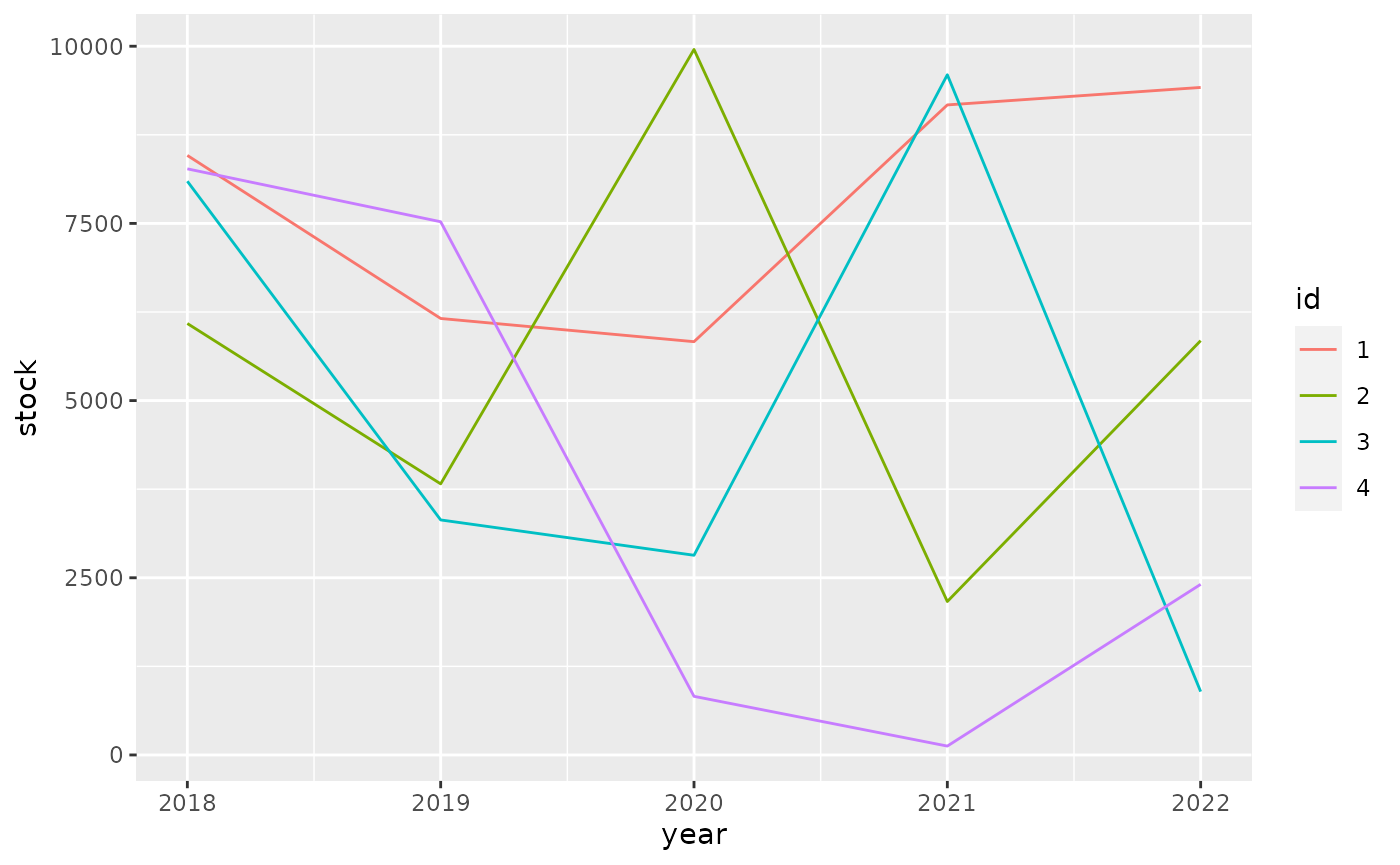
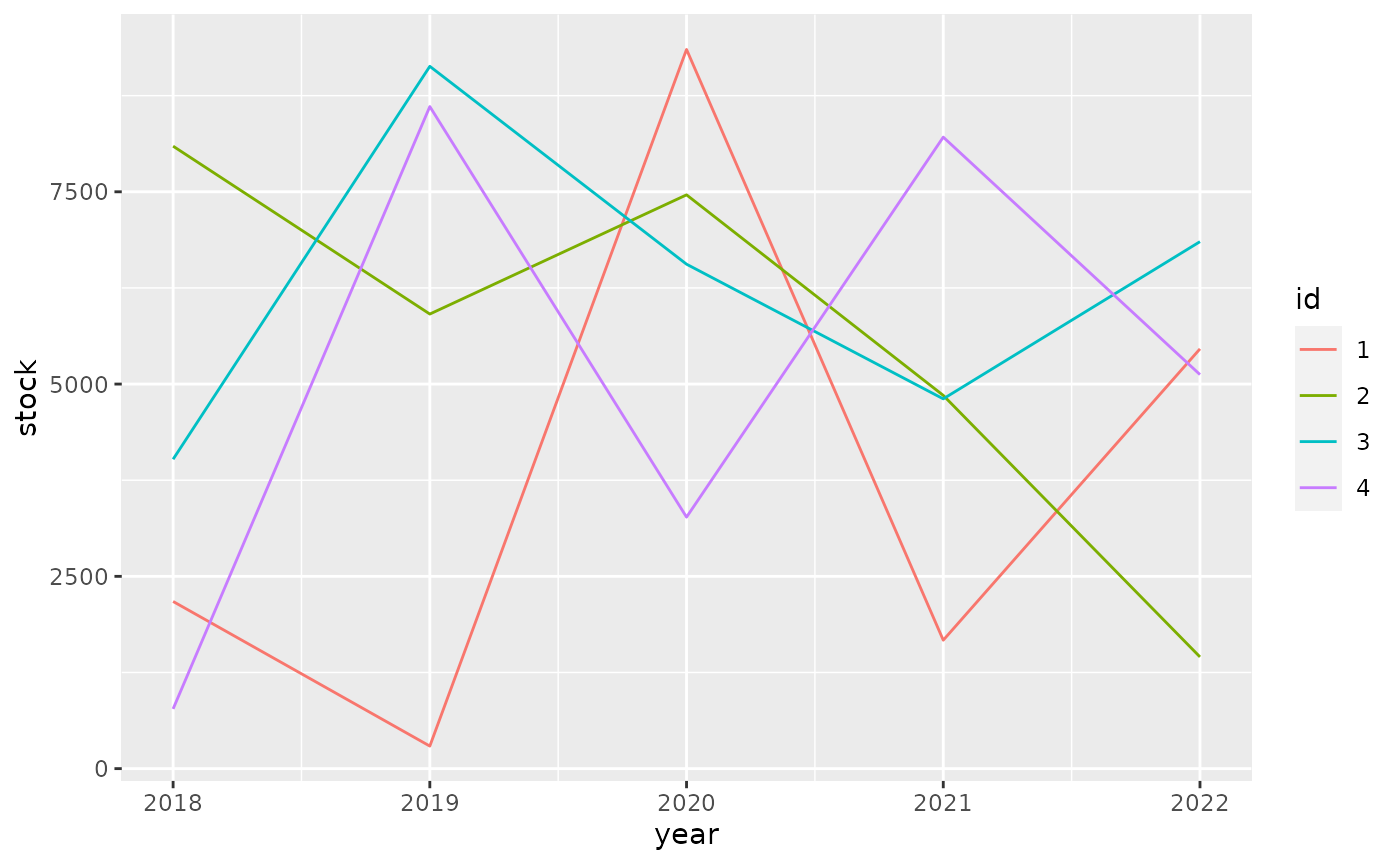
Built site for tibble: 3.1.3.9001@096f0c6

diff --git a/dev/articles/formats.html b/dev/articles/formats.html
@@ -221,10 +221,10 @@
 <span class="co">#&gt; # A tibble: 4 × 6</span>
 <span class="co">#&gt;   id       `2018`    `2019`    `2020`    `2021`    `2022`</span>
 <span class="co">#&gt;   &lt;fct&gt; &lt;dbl:fmt&gt; &lt;dbl:fmt&gt; &lt;dbl:fmt&gt; &lt;dbl:fmt&gt; &lt;dbl:fmt&gt;</span>
-<span class="co">#&gt; 1 1     $8,459.33 $6,158.60 $5,831.26 $9,171.88 $9,418.37</span>
-<span class="co">#&gt; 2 2     $6,087.65 $3,825.07 $9,954.60 $2,164.97 $5,845.58</span>
-<span class="co">#&gt; 3 3     $8,094.98 $3,316.17 $2,817.60 $9,597.20   $893.69</span>
-<span class="co">#&gt; 4 4     $8,269.90 $7,523.36   $827.23   $125.19 $2,407.25</span></code></pre></div>
+<span class="co">#&gt; 1 1     $2,173.43   $293.10 $9,350.86 $1,669.99 $5,457.75</span>
+<span class="co">#&gt; 2 2     $8,093.33 $5,910.51 $7,460.27 $4,852.97 $1,452.46</span>
+<span class="co">#&gt; 3 3     $4,022.56 $9,131.35 $6,558.68 $4,807.73 $6,851.61</span>
+<span class="co">#&gt; 4 4       $776.41 $8,608.30 $3,269.97 $8,210.73 $5,123.28</span></code></pre></div>
 <p>For ggplot2 we need to do <a href="https://github.com/tidyverse/ggplot2/pull/4065" class="external-link">some work</a> to show apply the formatting to the scales.</p>
 <div class="sourceCode" id="cb6"><pre class="downlit sourceCode r">
 <code class="sourceCode R"><span class="kw"><a href="https://rdrr.io/r/base/library.html" class="external-link">library</a></span><span class="op">(</span><span class="va"><a href="https://ggplot2.tidyverse.org" class="external-link">ggplot2</a></span><span class="op">)</span>
@@ -235,10 +235,10 @@
   <span class="fu"><a href="https://ggplot2.tidyverse.org/reference/geom_path.html" class="external-link">geom_line</a></span><span class="op">(</span><span class="op">)</span></code></pre></div>
 <p><img src="formats_files/figure-html/unnamed-chunk-7-1.png" width="700"></p>
 <p>It pays off to specify formatting very early in the process. The diagram below shows the principal stages of data analysis and exploration from “R for data science”.</p>
-<div id="htmlwidget-de5d1c2628aa6cfcc091" style="width:700px;height:432.632880098888px;" class="DiagrammeR html-widget"></div>
-<script type="application/json" data-for="htmlwidget-de5d1c2628aa6cfcc091">{"x":{"diagram":"graph TD\n  Import --> Tidy\n  Tidy --> Transform\n  Transform --> Visualize\n  Visualize --> Communicate\n  Visualize --> Model\n  Model -.-> Transform"},"evals":[],"jsHooks":[]}</script><p>The subsequent diagram adds data formats, communication options, and explicit data formatting. The original r4ds transitions are highlighted in bold. There are two principal options where to apply formatting for results: right before communicating them, or right after importing.</p>
-<div id="htmlwidget-e25beb6d384f85155723" style="width:700px;height:432.632880098888px;" class="DiagrammeR html-widget"></div>
-<script type="application/json" data-for="htmlwidget-e25beb6d384f85155723">{"x":{"diagram":"graph TD\n  .csv --> Import\n  API --> Import\n  DBI --> Import\n  dbplyr --> Import\n  Import -.-> Format[Format for analysis]\n  Format -.-> Tidy\n\n  subgraph r4ds\n  Import ==> Tidy\n  Tidy ==> Transform\n  Transform ==> Visualize\n  Visualize ==> Model\n  Model -.-> Transform\n  Visualize ==> Communicate\n  end\n\n  Visualize -.-> FormatComm[Format for communication]\n  FormatComm -.-> Communicate\n\n  FormatComm -- Apply formatting early --> Format\n\n  dbplyr -.-> Tidy\n  dbplyr -.-> Transform\n  dbplyr -.-> Visualize\n\n  Communicate --> gt\n  Communicate --> ggplot2\n  Communicate --> DT\n  Communicate --> plotly"},"evals":[],"jsHooks":[]}</script><p>Applying formatting early in the process gives the added benefit of showing the data in a useful format during the “Tidy”, “Transform”, and “Visualize” stages. For this to be useful, we need to ensure that the formatting options applied early:</p>
+<div id="htmlwidget-5ed8c5664da655042cdc" style="width:700px;height:432.632880098888px;" class="DiagrammeR html-widget"></div>
+<script type="application/json" data-for="htmlwidget-5ed8c5664da655042cdc">{"x":{"diagram":"graph TD\n  Import --> Tidy\n  Tidy --> Transform\n  Transform --> Visualize\n  Visualize --> Communicate\n  Visualize --> Model\n  Model -.-> Transform"},"evals":[],"jsHooks":[]}</script><p>The subsequent diagram adds data formats, communication options, and explicit data formatting. The original r4ds transitions are highlighted in bold. There are two principal options where to apply formatting for results: right before communicating them, or right after importing.</p>
+<div id="htmlwidget-8c519fe5a79272f7b30e" style="width:700px;height:432.632880098888px;" class="DiagrammeR html-widget"></div>
+<script type="application/json" data-for="htmlwidget-8c519fe5a79272f7b30e">{"x":{"diagram":"graph TD\n  .csv --> Import\n  API --> Import\n  DBI --> Import\n  dbplyr --> Import\n  Import -.-> Format[Format for analysis]\n  Format -.-> Tidy\n\n  subgraph r4ds\n  Import ==> Tidy\n  Tidy ==> Transform\n  Transform ==> Visualize\n  Visualize ==> Model\n  Model -.-> Transform\n  Visualize ==> Communicate\n  end\n\n  Visualize -.-> FormatComm[Format for communication]\n  FormatComm -.-> Communicate\n\n  FormatComm -- Apply formatting early --> Format\n\n  dbplyr -.-> Tidy\n  dbplyr -.-> Transform\n  dbplyr -.-> Visualize\n\n  Communicate --> gt\n  Communicate --> ggplot2\n  Communicate --> DT\n  Communicate --> plotly"},"evals":[],"jsHooks":[]}</script><p>Applying formatting early in the process gives the added benefit of showing the data in a useful format during the “Tidy”, “Transform”, and “Visualize” stages. For this to be useful, we need to ensure that the formatting options applied early:</p>
 <ul>
 <li>give a good user experience for analysis
 <ul>

diff --git a/dev/articles/types.html b/dev/articles/types.html
@@ -352,7 +352,7 @@
 #&gt; $ factor        &lt;fct&gt; A
 #&gt; $ ordered       &lt;ord&gt; a
 #&gt; $ Date          &lt;date&gt; 2021-07-30
-#&gt; $ POSIXt        &lt;dttm&gt; 2021-07-30 16:17:08
+#&gt; $ POSIXt        &lt;dttm&gt; 2021-07-30 16:20:55
 #&gt; $ difftime      &lt;drtn&gt; 1 secs
 #&gt; $ hms           &lt;time&gt; 00:00:01
 #&gt; $ integer64     &lt;int64&gt; 10000000000
@@ -388,7 +388,7 @@
 <span class="co">#&gt;             "sym"</span>
 <span class="co">#&gt;         }, typeof(x))</span>
 <span class="co">#&gt; }</span>
-<span class="co">#&gt; &lt;bytecode: 0x5604a43d64a8&gt;</span>
+<span class="co">#&gt; &lt;bytecode: 0x5589b1b24ed8&gt;</span>
 <span class="co">#&gt; &lt;environment: namespace:pillar&gt;</span></code></pre></div>
 </div>
   </div>
